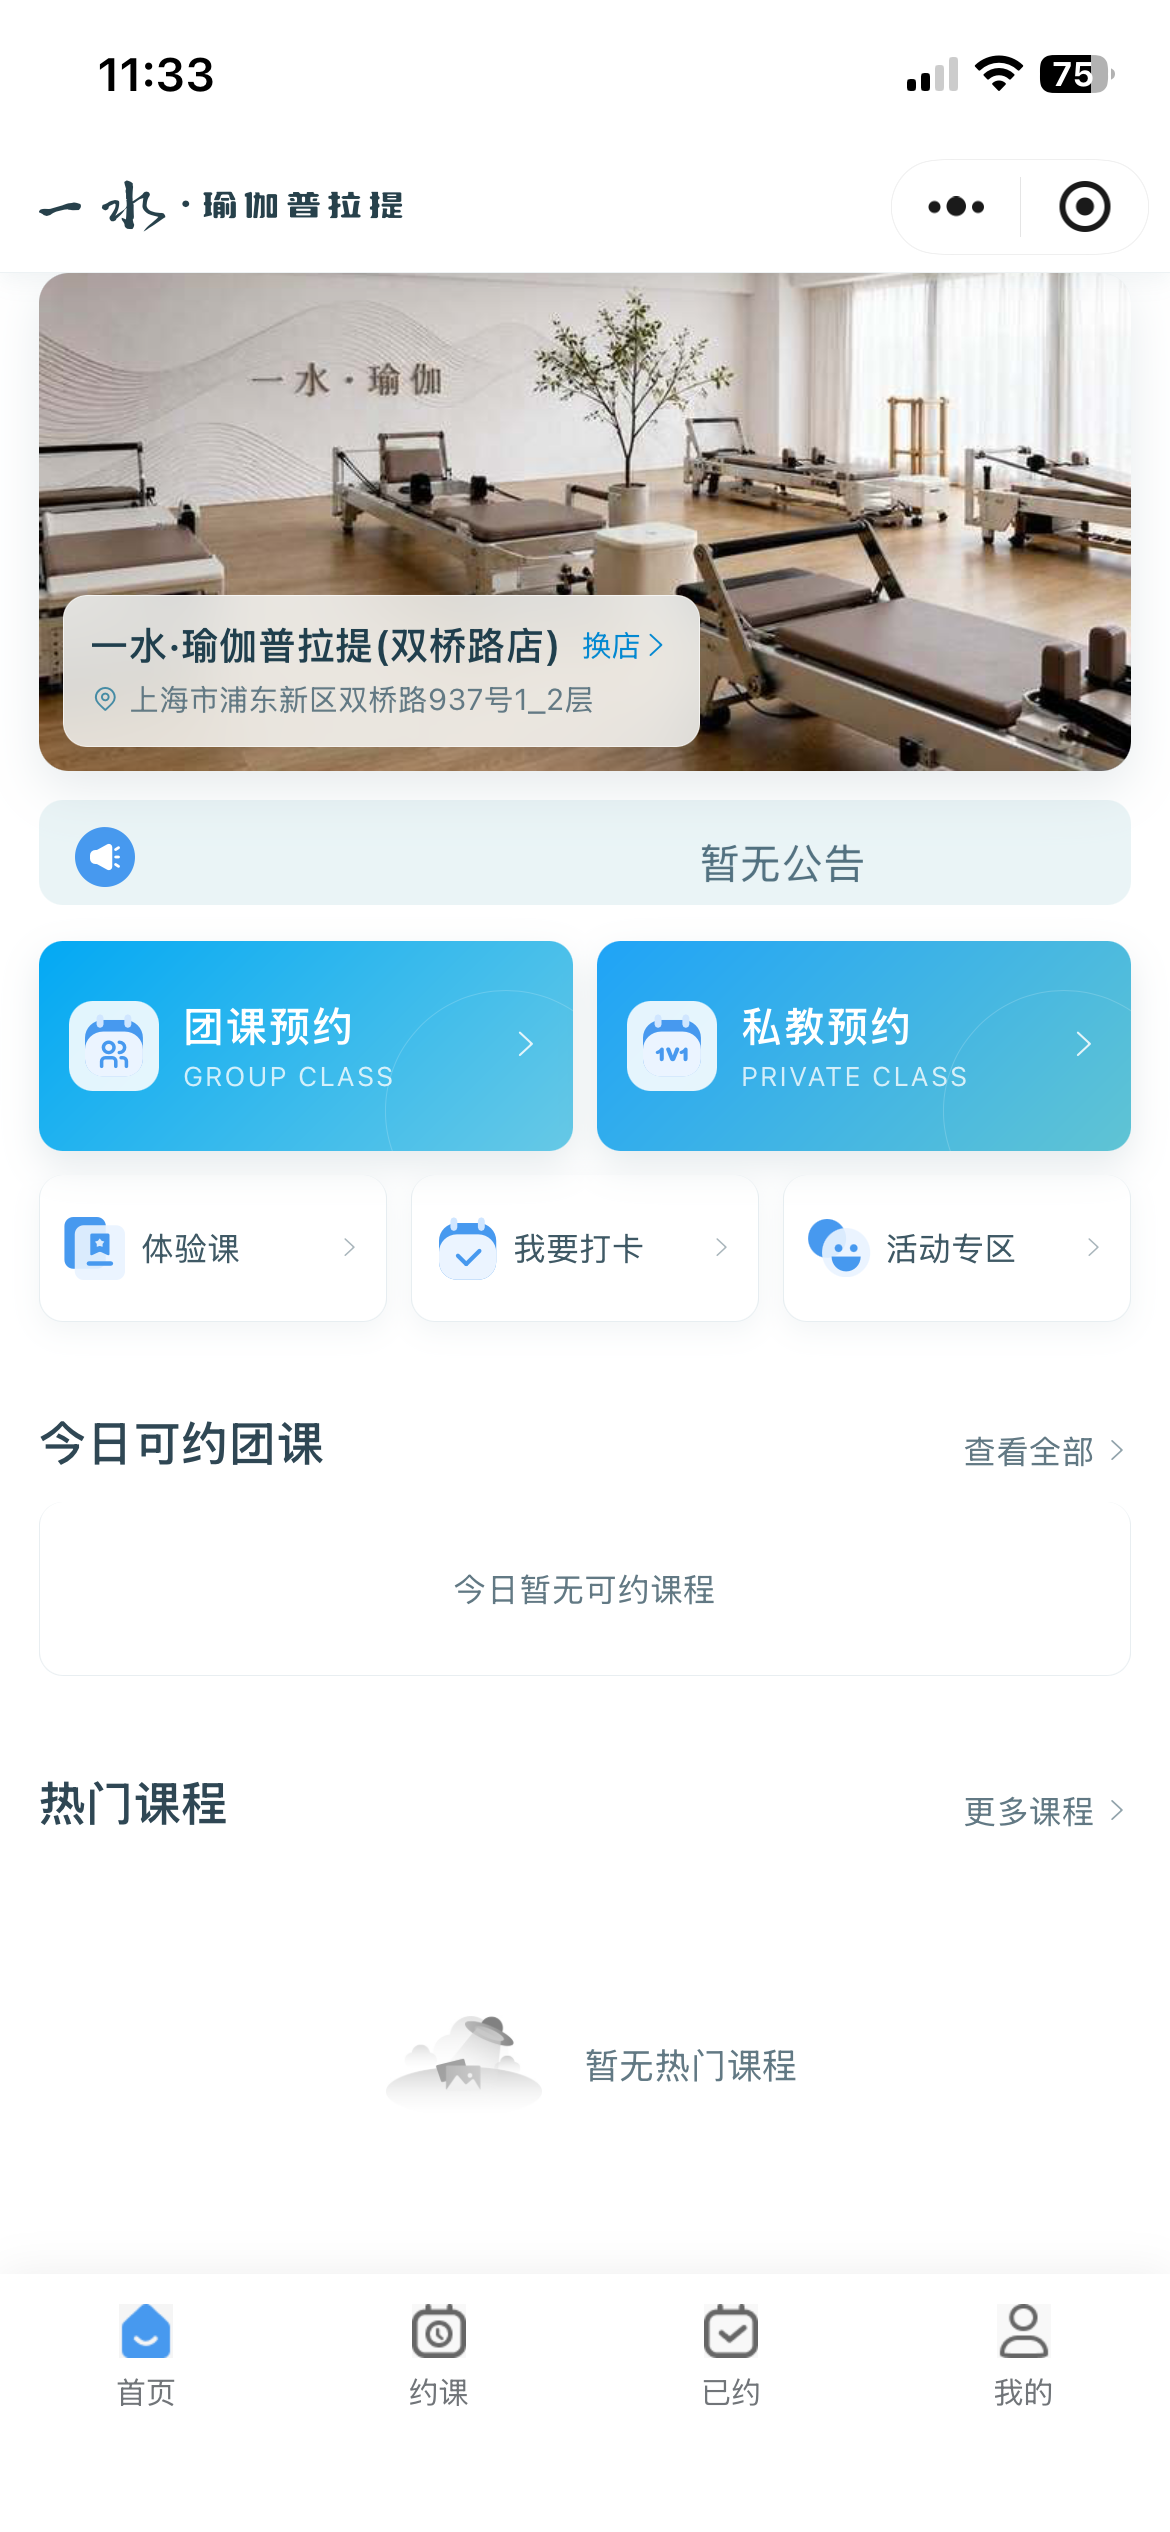
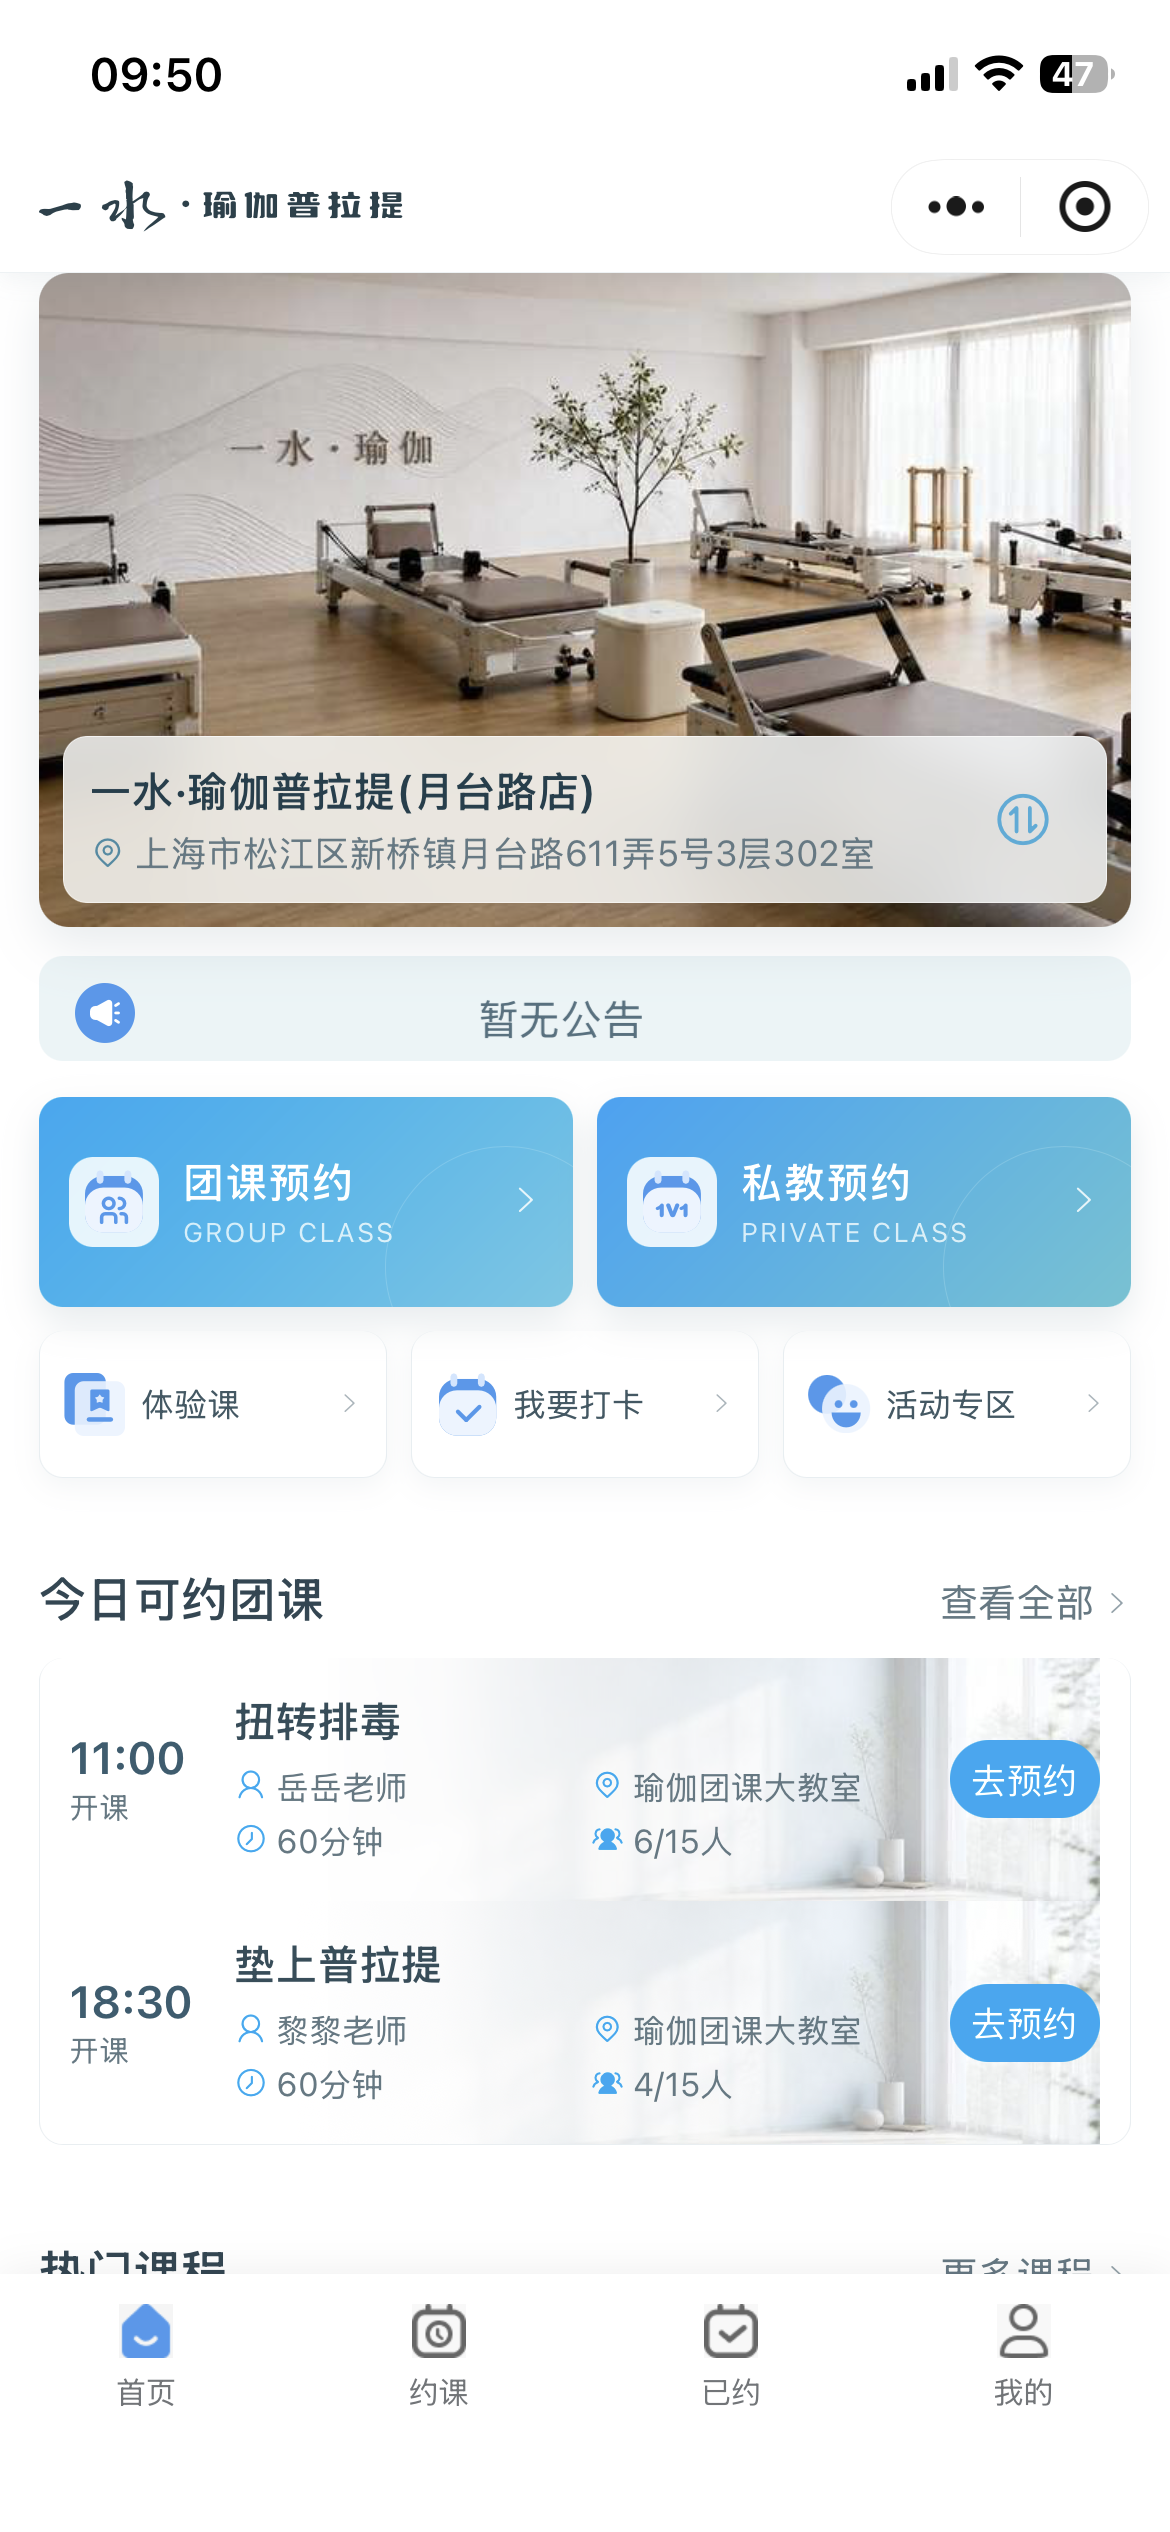
docs: 修改页面截图

diff --git a/docs/产品分析/页面与对象.md b/docs/产品分析/页面与对象.md
@@ -1,0 +1,84 @@
+# 一水·瑜伽普拉提（微信小程序）· 页面与对象
+
+## 1. 文档说明
+
+本文从《页面与跳转梳理.md》提取用户端页面中出现的业务对象，并记录对象出现在哪些页面、页面能证明什么。本文描述的是页面证据下的业务概念，不代表已经确认数据库表、字段、实体基数或后台实现。
+
+标记说明：
+
+- **页面可见**：页面或交互明确出现该对象/信息。
+- **业务推断**：为解释页面行为而归纳出的对象关系，仍需需求或接口确认。
+- **TODO-待确认**：页面没有提供足够证据确认对象结构、规则或完整生命周期。
+
+## 2. 业务对象清单
+
+| 对象 | 对象说明（页面证据） | 出现页面 | 状态与边界 |
+|---|---|---|---|
+| 用户 | 小程序中的使用者；个人中心展示用户信息，部分入口要求登录。 | 首页、在约、我的、登录注册页 | **页面可见**。用户资料字段、账号合并规则及身份模型为 **TODO-待确认**。 |
+| 门店 | 首页展示当前门店信息；支持切换门店、查看地址，体验课申请可选择门店。 | 首页、切换门店、申请体验、微信地图页 | **页面可见**。门店与课程、教练的归属及可选范围为 **TODO-待确认**。 |
+| 课程 | 约课页按团课、精品课、私教课、特色课分类展示课程/教练内容；首页也展示可约课程。 | 首页、约课、约教练、在约 | **页面可见**。课程分类、课程定义与实际开课场次之间的关系为 **TODO-待确认**。 |
+| 课程场次 / 排课 | 约课页有日期选择和课程列表，约教练页显示按日期浏览的课表。 | 约课、约教练 | 作为承载日期与课程安排的业务概念，属**业务推断**；场次、排课、容量及状态字段为 **TODO-待确认**。 |
+| 教练 | 首页展示金牌教练；可从教练卡查看课程；约课页私教课中也展示教练卡。 | 首页、约课、约教练 | **页面可见**。教练与门店、课程、场次的关联规则为 **TODO-待确认**。 |
+| 课程预约 | 在约页按预约状态筛选并展示预约卡片；约课页存在预约入口。 | 约课、在约 | **页面可见**。预约创建、取消、签到、候补、支付/扣卡及资格校验规则均为 **TODO-待确认**。 |
+| 体验课申请 | 申请体验页收集姓名、手机号、留言和所选门店；我的体验课页展示申请状态。 | 首页、申请体验、我的体验课 | **页面可见**。页面体现申请待审核、审核通过、审核拒绝状态；审核角色、审核流程及申请限制为 **TODO-待确认**。 |
+| 会员卡 | 我的页提供会员卡入口，截图目录包含会员卡页面。 | 我的、会员卡 | **页面可见**。卡种、余额/次数、有效期、消费规则与课程预约的关系为 **TODO-待确认**。 |
+| 优惠券 | 我的页提供优惠券入口，截图目录包含优惠券页面。 | 我的、优惠券 | **页面可见**。领取、使用、适用范围、有效期及与预约的关系为 **TODO-待确认**。 |
+| 礼包 | 我的页提供礼包入口，截图目录包含我的礼包页面。 | 我的、我的礼包 | **页面可见**。礼包内容、领取与核销规则为 **TODO-待确认**。 |
+| 积分 | 我的页提供积分入口，截图目录包含积分页面。 | 我的、积分 | **页面可见**。积分来源、账户余额、变更明细和兑换规则为 **TODO-待确认**。 |
+| 合同 | 我的页提供合同入口，截图目录包含我的合同页面。 | 我的、我的合同 | **页面可见**。合同类型、签署状态、签署主体及与会员卡的关系为 **TODO-待确认**。 |
+| 体测记录 | 我的页提供体测入口。 | 我的、体测 | 入口已在页面梳理中记录；体测项目、记录结构、录入角色和历史记录为 **TODO-待确认**。 |
+| 消息 | 我的页铃铛进入消息页，消息页展示消息列表/空态。 | 我的、消息 | **页面可见**。消息类型、已读状态、来源与通知渠道为 **TODO-待确认**。 |
+| 活动 | 首页活动专区进入活动列表，列表可展示活动卡片。 | 首页、活动列表 | **页面可见**。活动详情、报名/参与及状态规则为 **TODO-待确认**。 |
+| 分享海报 | 首页“我要打卡”进入海报页，页面支持轮播、下载和分享；二维码属于图片内容。 | 首页、分享海报 | **页面可见**。当前证据支持静态海报素材，不支持推定为动态分享记录或裂变对象。 |
+| 用户协议 / 隐私协议 | 登录页和我的页可进入协议内容。 | 我的、快速登录、手机号登录/注册、协议页 | **页面可见**。它们是业务规则/告知内容，不据此推定为用户业务数据对象。 |
+
+## 3. 页面与对象对应
+
+| 页面 | 涉及对象 | 页面体现的业务动作或信息 |
+|---|---|---|
+| 首页 | 用户、门店、课程、教练、活动、分享海报 | 展示门店与课程/教练/活动入口；切换门店、查看地址、打开体验课/分享/活动/教练相关页面。 |
+| 约课 | 课程、课程场次/排课、教练、课程预约、用户 | 按课程类型和日期浏览内容；预约操作受到登录拦截。 |
+| 在约 | 用户、课程预约、课程/课程场次 | 按预约状态、课种和卡种筛选预约卡片；详情与取消操作尚待确认。 |
+| 我的 | 用户、会员卡、优惠券、礼包、积分、合同、体测记录、消息、协议 | 汇总个人信息和个人资产/记录入口。 |
+| 切换门店 | 门店、用户 | 选择门店；页面梳理记录该操作需要登录。 |
+| 申请体验 | 用户、门店、体验课申请 | 填写申请信息并提交；可进入我的体验课查看进度。 |
+| 我的体验课 | 用户、体验课申请 | 按申请审核状态查看记录。 |
+| 分享海报 | 分享海报、用户（分享操作发起者） | 浏览海报，保存或调用微信分享能力。 |
+| 活动列表 | 活动 | 浏览活动；活动详情入口尚待确认。 |
+| 约教练 | 教练、课程、课程场次/排课 | 按教练查看课表；页面梳理记录课程卡无响应，当前为只读展示。 |
+| 会员卡 / 优惠券 / 礼包 / 积分 / 合同 / 体测 | 对应个人资产或记录、用户 | 个人中心入口指向的对象详情；除截图/入口外，业务规则尚未确认。 |
+| 消息 | 用户、消息 | 查看消息列表；当前记录为空态。 |
+| 快速登录 / 手机号登录注册 / 忘记密码 | 用户、登录凭证、用户协议、隐私协议 | 微信手机号授权或手机号密码/验证码登录注册；凭证和账号规则不在页面证据范围内。 |
+
+## 4. 对象关系（页面证据下的概念关系）
+
+```mermaid
+classDiagram
+    用户 --> 课程预约 : 查看/发起（推断）
+    用户 --> 体验课申请 : 提交/查看（推断）
+    门店 --> 体验课申请 : 申请时选择
+    课程 --> 课程场次 : 按日期展示（推断）
+    教练 --> 课程场次 : 课表展示（待确认）
+    课程场次 --> 课程预约 : 预约目标（待确认）
+    用户 --> 会员卡 : 个人中心入口
+    用户 --> 优惠券 : 个人中心入口
+    用户 --> 礼包 : 个人中心入口
+    用户 --> 积分 : 个人中心入口
+    用户 --> 合同 : 个人中心入口
+    用户 --> 体测记录 : 个人中心入口
+    用户 --> 消息 : 查看消息
+    活动列表 --> 活动 : 展示活动
+```
+
+> 图中连线表达页面体现的业务语义或待确认的概念关系，不代表数据库外键、所有权模型或已确认的存储结构。会员卡、优惠券等连线仅表示个人中心入口关系。
+
+## 5. 待确认问题
+
+1. 课程、排课/场次和教练之间分别以什么业务关系组织？课程预约实际关联课程还是具体场次？
+2. 预约的资格校验、名额、取消、签到、候补、支付/扣卡规则是什么？
+3. 体验课申请与正式课程预约是否共享用户、门店或预约对象？申请审核由谁处理，审核后如何转化？
+4. 会员卡、优惠券、礼包、积分和合同分别有哪些状态及生命周期，是否参与预约结算？
+5. 体测记录由哪个角色创建/维护，包含哪些测量项目，是否需要历史追踪或审计？
+6. 消息由哪些业务事件产生，是否包含已读状态、站内/微信通知及跳转目标？
+7. 活动是否支持报名、名额、签到或优惠关联？
+8. 页面梳理中的页面编号和部分跳转目标仍有旧编号残留；完成对象到页面编号的稳定映射前，本文暂用页面名称引用。

diff --git a/docs/产品分析/页面与跳转梳理.md b/docs/产品分析/页面与跳转梳理.md
@@ -47,7 +47,7 @@
 
 | 编号 | 页面 | 类型 | 截图 |
 |---|---|---|---|
-| P1 | 首页 | 一级页面 | `P1-首页(1).png` `P1-首页(2).png` `P1-首页(3).png` |
+| P1 | 首页 | 一级页面 | `P1-首页(1).png` `P1-首页(2).png` |
 | P2 | 约课 | 一级页面 | `P2-约课.png` |
 | P3 | 在约 | 一级页面 | `P3-在约.png` |
 | P4 | 我的 | 一级页面 | `P4-我的.png` |
@@ -68,19 +68,19 @@
 
 「我的」页视觉顺序：左上角铃铛 → 用户信息 → 四宫格 → 列表组一 → 列表组二（我的体验课 / 用户协议 / 隐私政策）。
 
-| 编号 | 页面 | 截图 |
-|---|---|---|
-| P10 | 消息页 | `P4-我的-01-消息.png` |
-| P11 | 设置 | `P4-我的-02-设置` |
-| P12 | 我的会员卡 | `P4-我的-04-会员卡.png` |
-| P13 | 我的优惠券 | `P4-我的-05-优惠券.png` |
-| P14 | 我的礼包 | `P4-我的-06-我的礼包.png` |
-| P15 | 我的积分 | `P4-我的-07-积分.png` |
-| P16 | 我的合同 | `P4-我的-08-我的合同.png` |
-| P17 | 已约课程 |`P4-我的-09-我的预约课.png`|
-| P18 | 我的体验课 |`P4-我的-09-我的体验课.png`|
-| P19 | 用户协议 | `P4-我的-10-用户协议.png` |
-| P20 | 隐私协议 | `P4-我的-11-隐私协议.png` |
+| 编号 | 页面 | 类型 | 截图 |
+|---|---|---|---|
+| P10 | 消息页 | 二级页面 | `P4-我的-01-消息.png` |
+| P11 | 设置 | 二级页面 | `P4-我的-02-设置` |
+| P12 | 我的会员卡 | 二级页面 | `P4-我的-04-会员卡.png` |
+| P13 | 我的优惠券 | 二级页面 | `P4-我的-05-优惠券.png` |
+| P14 | 我的礼包 | 二级页面 | `P4-我的-06-我的礼包.png` |
+| P15 | 我的积分 | 二级页面 | `P4-我的-07-积分.png` |
+| P16 | 我的合同 | 二级页面 | `P4-我的-08-我的合同.png` |
+| P17 | 已约课程 | 二级页面 |`P4-我的-09-我的预约课.png`|
+| P18 | 我的体验课 | 二级页面 |`P4-我的-09-我的体验课.png`|
+| P19 | 用户协议 | 二级页面 | `P4-我的-10-用户协议.png` |
+| P20 | 隐私协议 | 二级页面 | `P4-我的-11-隐私协议.png` |
 
 #### 第 4 组 · 登录模块（3个）
 
